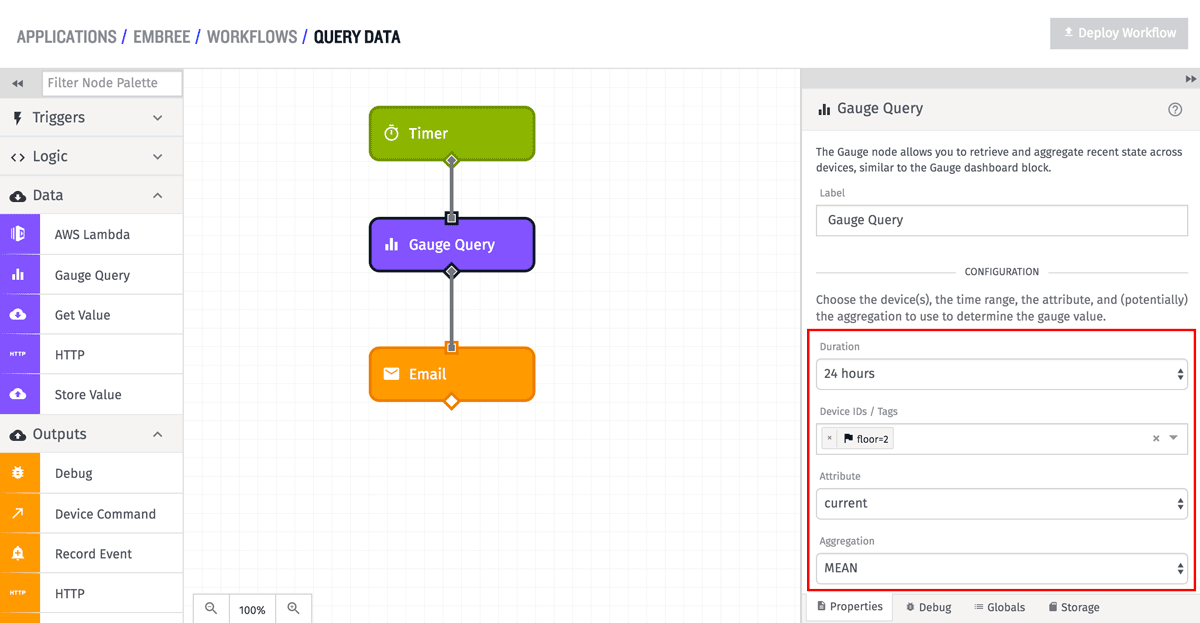
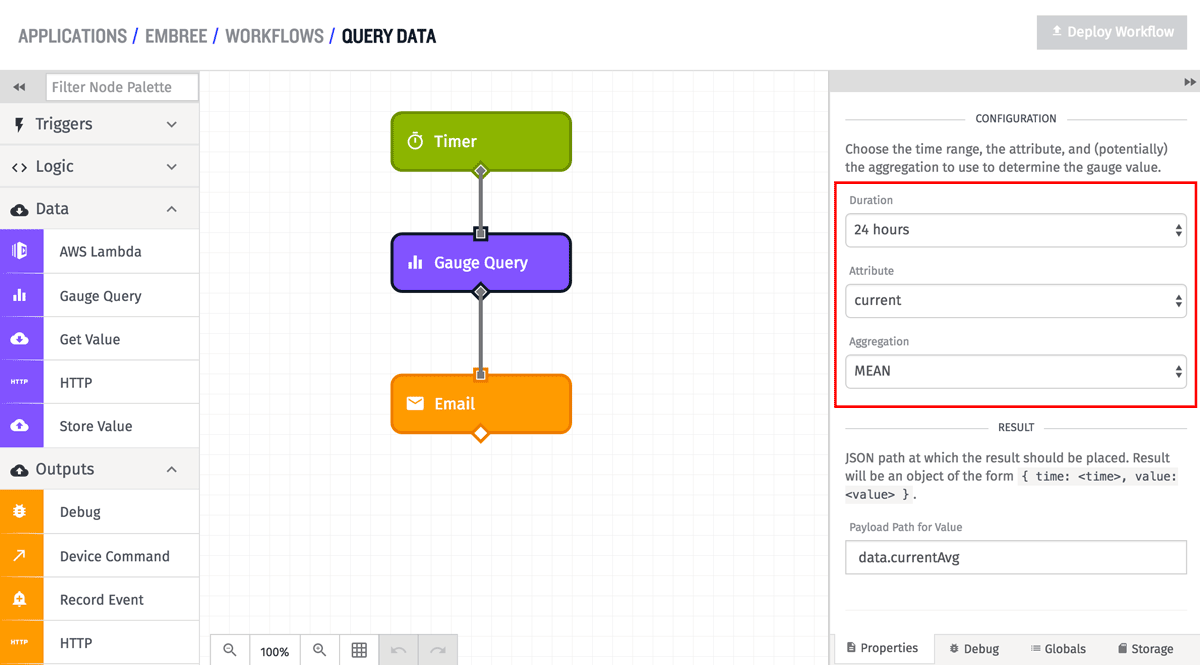
update gauge query node docs

diff --git a/docs/workflows/data/gauge-query.md b/docs/workflows/data/gauge-query.md
@@ -8,9 +8,13 @@ The gauge query node allows a workflow to query and aggregate state data for one
 
 The configuration for the gauge query node is extremely similar to the [gauge dashboard block](/dashboards/gauge/).
 
-![Gauge Query Node Configuration](/images/workflows/data/gauge-query-node-config.png "Gauge Query Node Configuration")
+![Gauge Query Node Device Selection](/images/workflows/data/gauge-query-node-device.png "Gauge Query Node Device Selection")
 
-The gauge node needs to know what device(s) to query, over what time frame, on what attribute, and what aggregation to use.  When querying only a single device, and requesting only the last data point, no aggregation is needed (since there will only be a single value).  In the above example, the attribute `current` will be averaged over the last 24 hours for all devices with the tag key `floor` set to `2`.
+First step is selecting the devices to query.  The node has two options for selecting devices - you can specifically select a set of devices to query, or you can pull one or more device ids off of the current workflow payload to query.  That second option allows a workflow to dynamically change what specific devices are being queried depending on the payload currently being processed.  In the example above, the first option is being used, and the node will query all devices whose tag `floor` is equal to `2`.
+
+![Gauge Query Node Config](/images/workflows/data/gauge-query-node-config.png "Gauge Query Node Config")
+
+The gauge node also needs to know the time frame, the attribute, and what aggregation to use for the query.  When querying only a single device, and requesting only the last data point, no aggregation is needed (since there will only be a single value).  In the above example, the attribute `current` will be averaged over the last 24 hours for the selected devices.
 
 ![Gauge Query Node Result](/images/workflows/data/gauge-query-node-result.png "Gauge Query Node Result")
 
